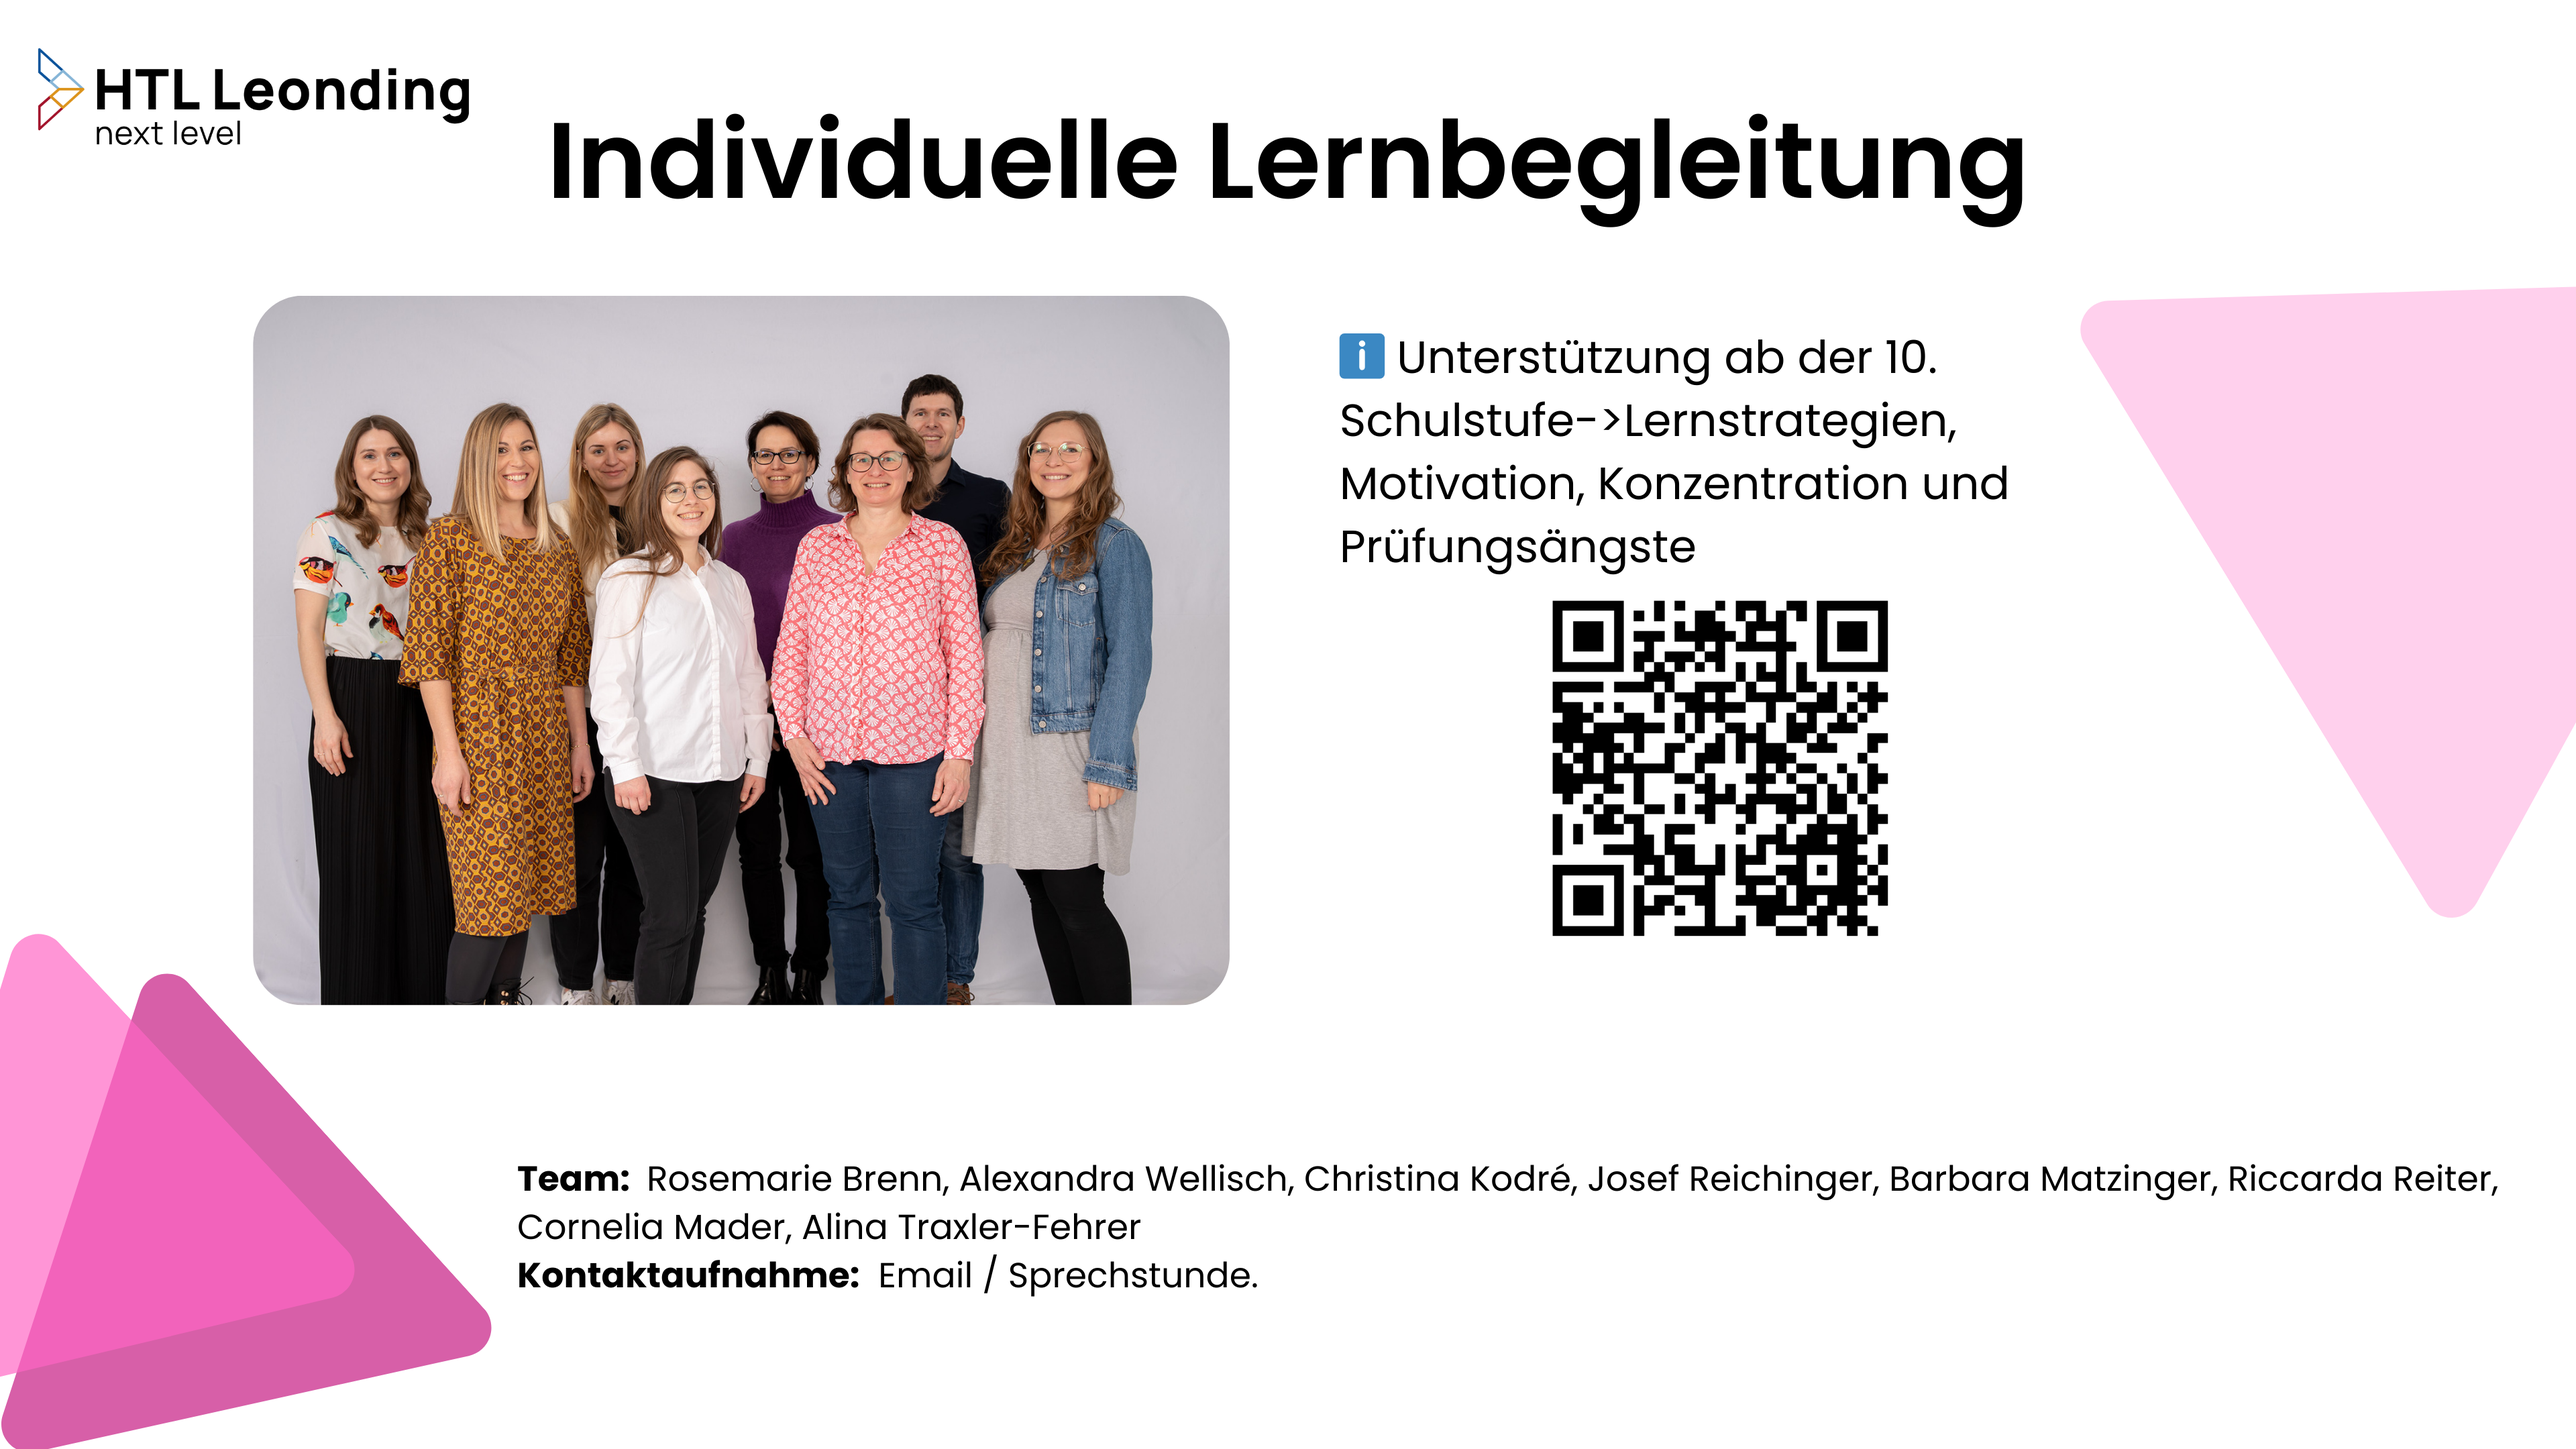
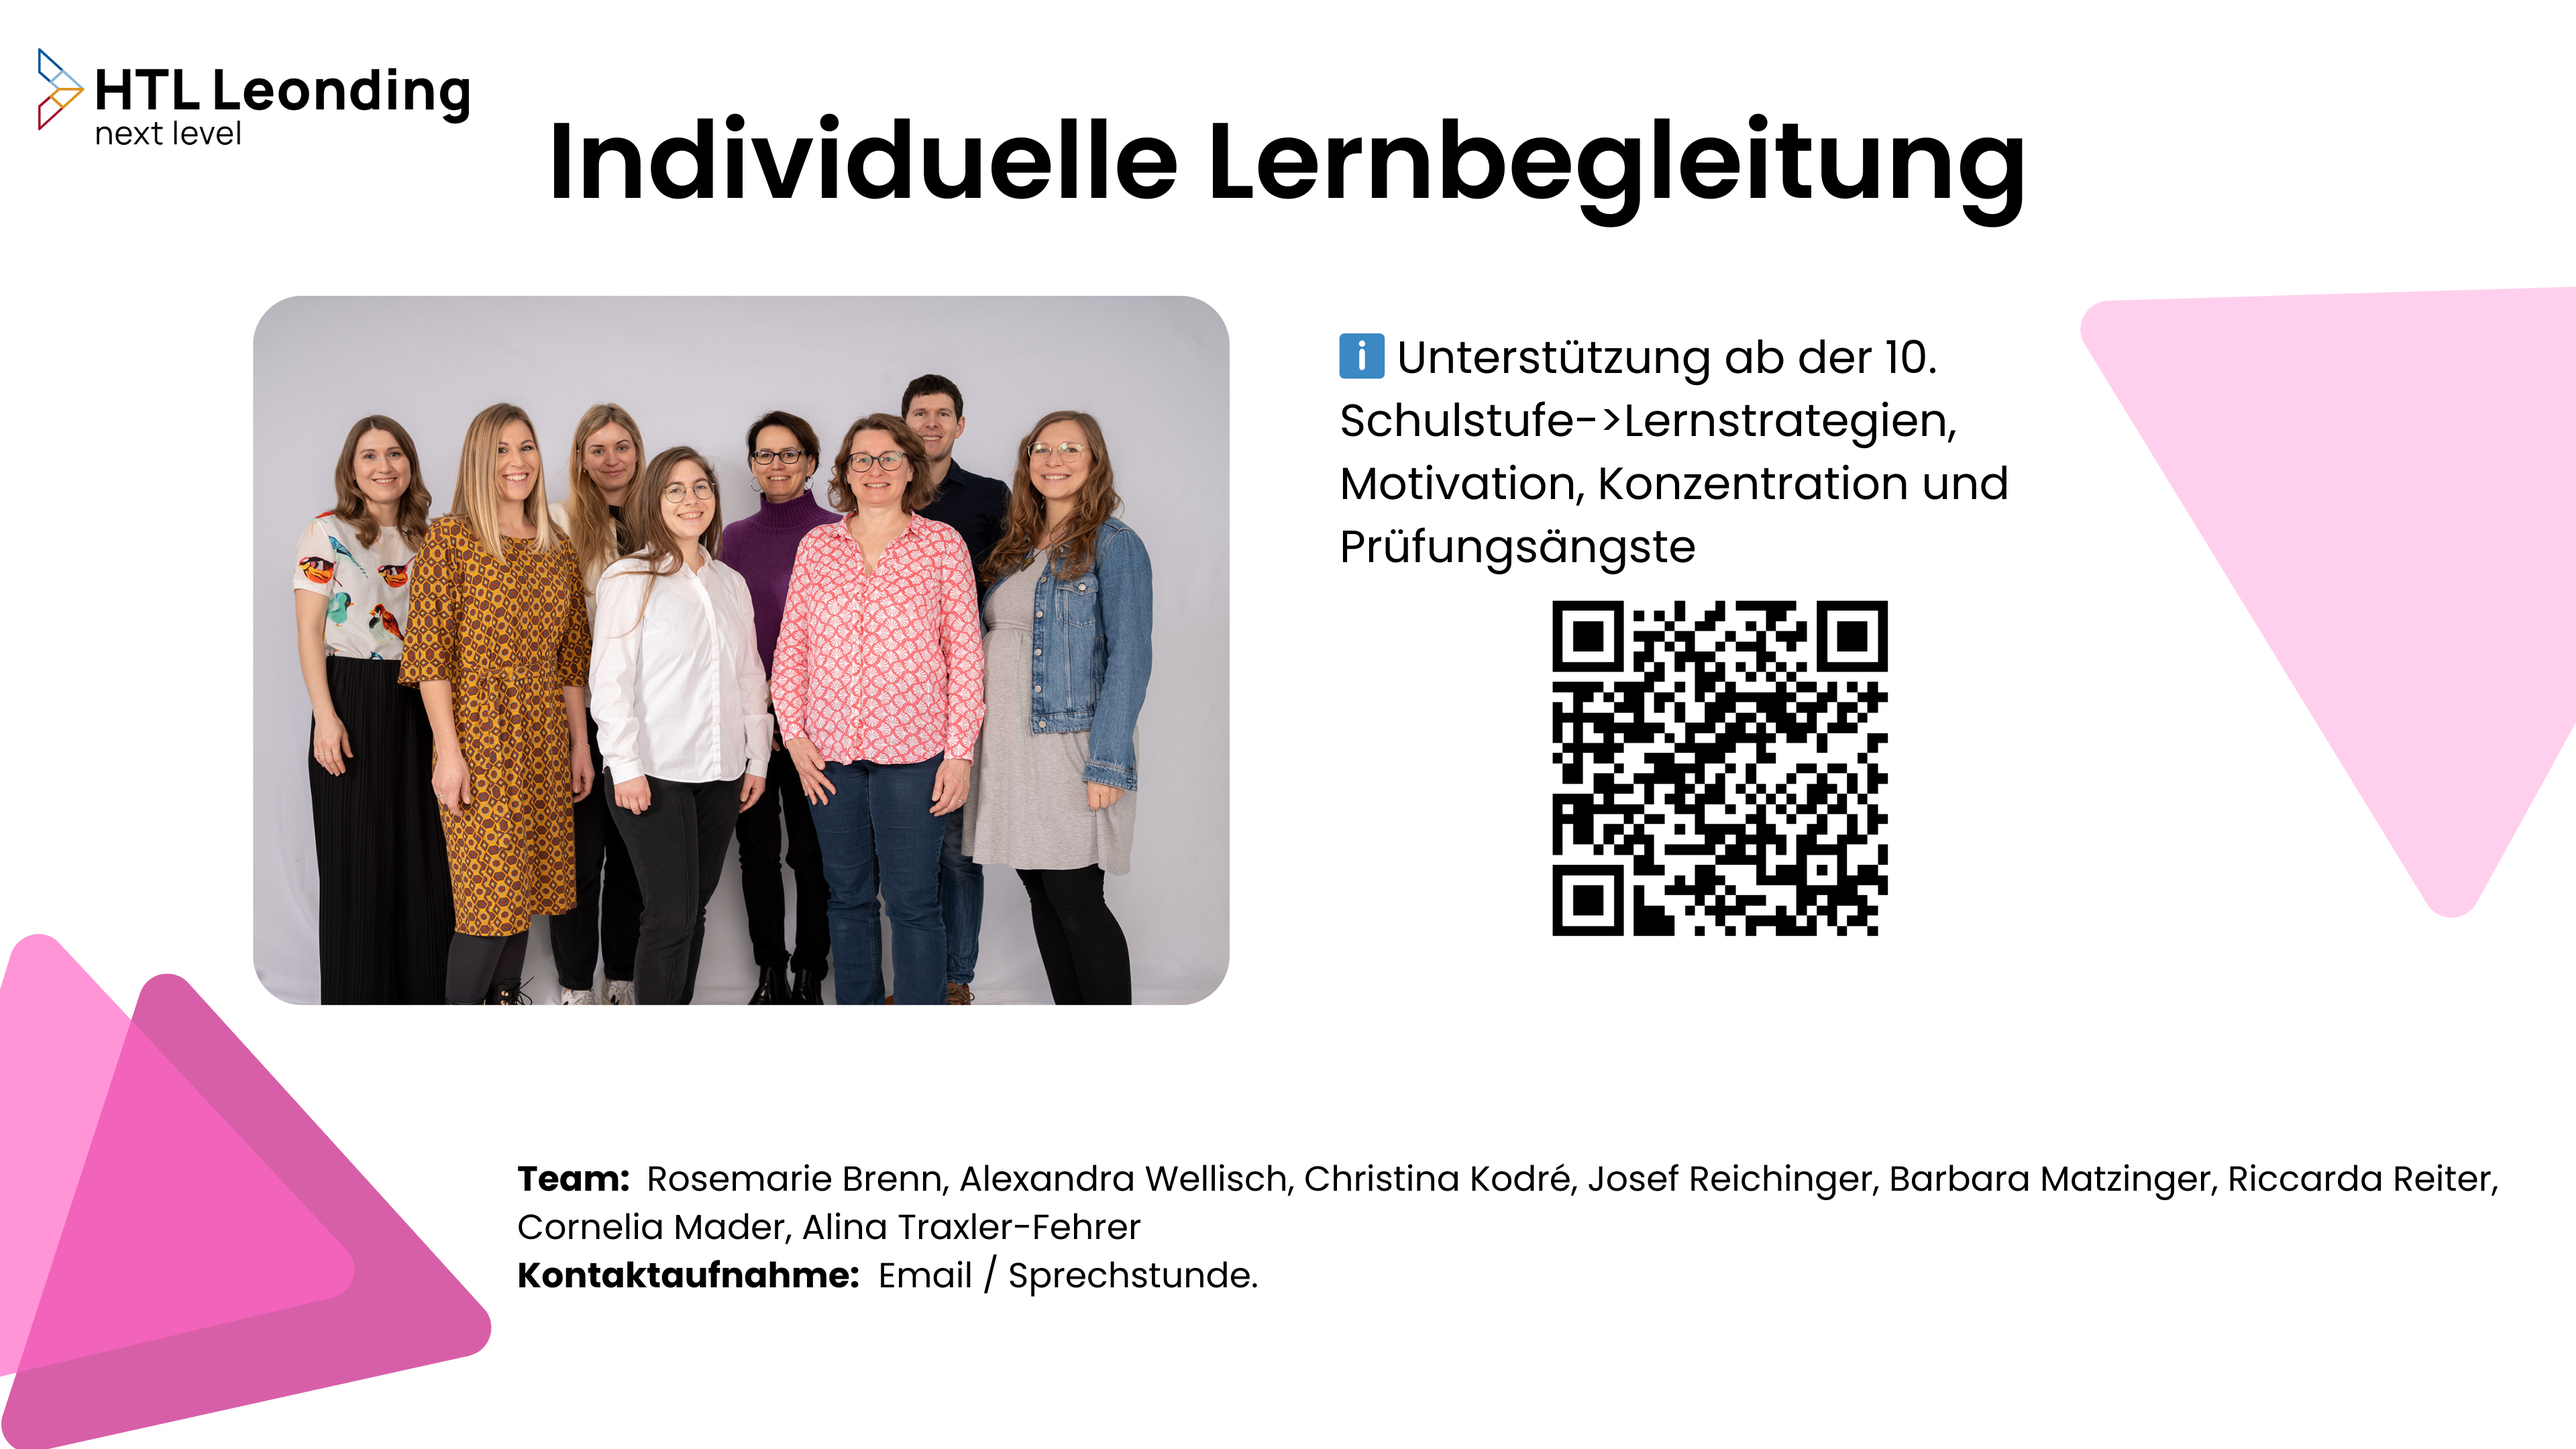
QR Codes changed)

Changed region(s): [[0.5938, 0.4032, 0.75, 0.6514]]

diff --git a/utils/script.js b/utils/script.js
@@ -1,6 +1,6 @@
 document.addEventListener("DOMContentLoaded", function () {
-    var slideDuration = 5000; // Dauer pro Slide (5 Sekunden)
-    var transitionSpeed = 500; // Übergangsgeschwindigkeit (500ms)
+    var slideDuration = 20000; // Dauer pro Slide 
+    var transitionSpeed = 500; // Übergangsgeschwindigkeit 
     var slides = document.querySelectorAll('.splide__slide').length;
 
     var splide = new Splide('.splide', {
